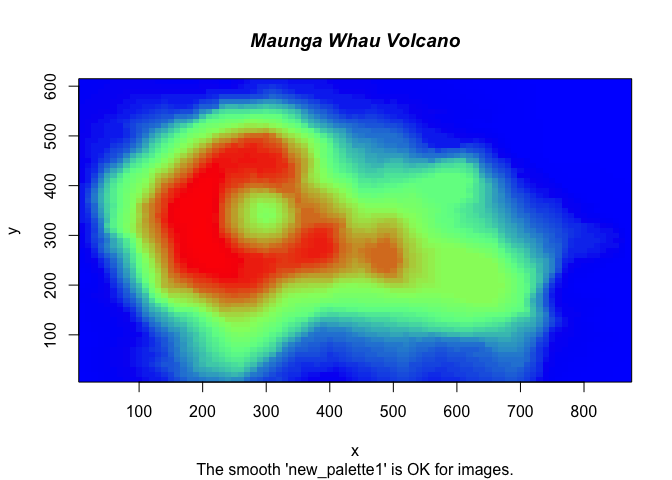
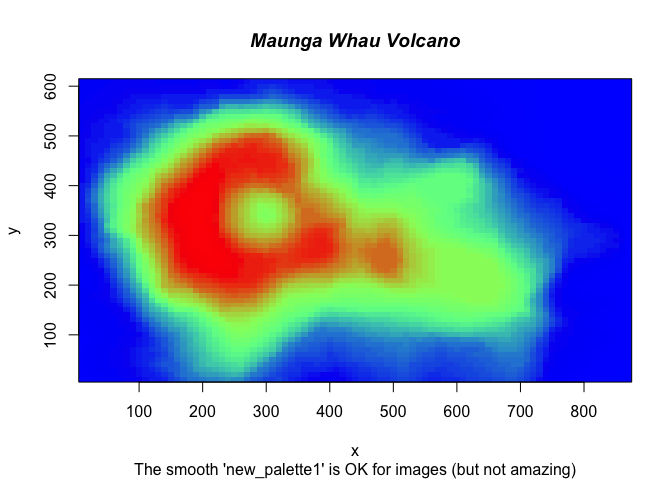
updating documentation x5

Changed region(s): [[0.1875, 0.9688, 0.875, 1.0]]

diff --git a/README.md b/README.md
@@ -236,7 +236,7 @@ image(x, y, volcano, col = cmap_create("new_palette1"), axes = FALSE)
 axis(1, at = seq(100, 800, by = 100))
 axis(2, at = seq(100, 600, by = 100))
 box()
-title(main = "Maunga Whau Volcano", font.main = 4, sub="The smooth 'new_palette1' is OK for images.")
+title(main = "Maunga Whau Volcano", font.main = 4, sub="The smooth 'new_palette1' is OK for images (but not amazing)")
 ```
 
 <img src="man/figures/README-image_example2-1.png" width="100%" />
